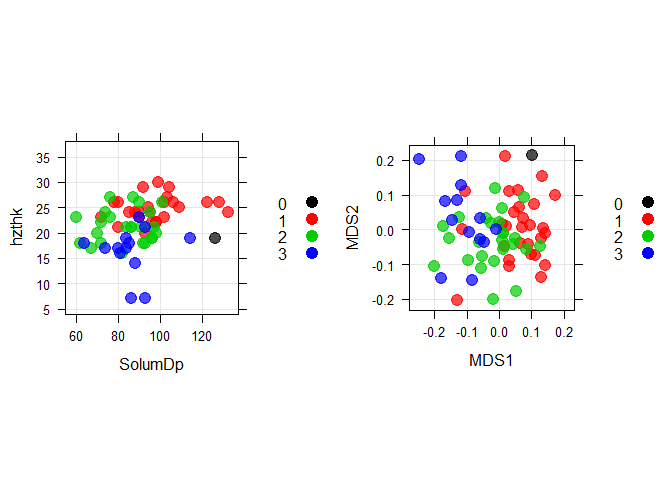
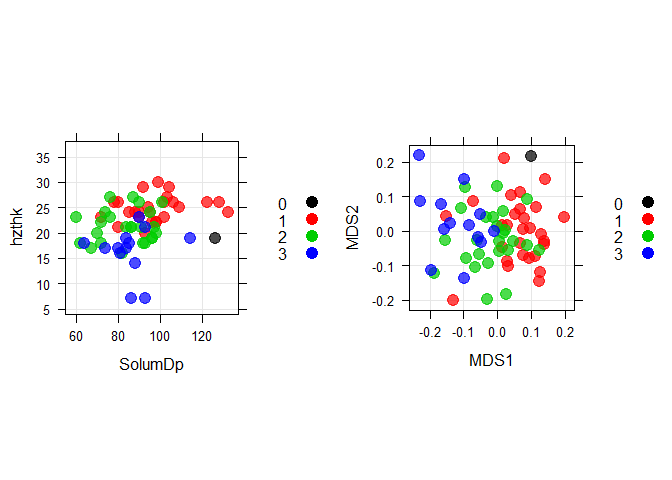
update to sie analysis

Changed region(s): [[0.5625, 0.3125, 0.8438, 0.7188], [0.5625, 0.5938, 0.5938, 0.6562], [0.8125, 0.6875, 0.8438, 0.7188]]

diff --git a/sandbox/stephen/neil_arcsie.md b/sandbox/stephen/neil_arcsie.md
@@ -8,6 +8,16 @@ November 7, 2016
 
 
 
+
+## Introduction
+
+This analysis looks at the field data collected for the following 2016 MLRA projects:
+- MLRA 111E - Cardington and Centerburg silt loams, 2 to 6 percent slopes 
+- MLRA 111E - Cardington and Centerburg silt loams, 2 to 6 percent slopes, eroded
+
+One of the goals of these projects was to develop an ArcSIE model in order to differentiate erosion classes. The analysis below is intended to evaluate the field data and ArcSIE model.
+
+
 ## Import Data and Transform
 
 
@@ -25,7 +35,7 @@ data <- transform(data,
 ```
 
 
-## Confusion Matrix of the Erosion Class vs the ArcSIE Predictions
+## Evaluation of the Accuracy of the ArcSIE Predictions
 
 
 ```r
@@ -44,17 +54,17 @@ cm$table
 ```
 
 ```r
-cm$overall
+round(cm$overall, 2)
 ```
 
 ```
 ##       Accuracy          Kappa  AccuracyLower  AccuracyUpper   AccuracyNull 
-##     0.52238806     0.24052426     0.39674840     0.64598512     0.41791045 
+##           0.52           0.24           0.40           0.65           0.42 
 ## AccuracyPValue  McnemarPValue 
-##     0.05450886            NaN
+##           0.05            NaN
 ```
 
-The overall accuracy of the ArcSIE predictions is 0.52. The confusion matrix above shows that the ArcSIE model wasn't able to discriminate EroClassFD class 2 well. However since the initial sampling, Tonie Endres has reviewed some of the misclassifications and determined the ArcSIE classes to be correct, thus the overall accuracy is somewhat higher.
+The overall accuracy of the ArcSIE predictions is 0.52. The confusion matrix above shows that the ArcSIE model wasn't able to discriminate EroClassFD class 2 well. However since the initial sampling, Tonie Endres has reviewed some of the observations that were misclassified in the field and determined the ArcSIE classes to be correct, thus the overall accuracy is somewhat higher.
 
 
 ## Boxplots of the Erosion Classes
@@ -84,7 +94,7 @@ bwplot(EroClass ~ value | variable + method, data = data_lo,
 #   facet_wrap(~ variable + method, scales="free_y")
 ```
 
-The box plots show that the FD erosion classes have a linear trend for some variables, while others only show one class deviating from the others. In addition the variation within each classes overlap the others, such that their median values are indistinguishable from the other classes in many cases. The trends for the EroClassSIE classes appear to be less linear and have less separation. 
+The box plots show that the FD erosion classes have a linear trend for some variables, while other variables only show class 3 or 1 deviating from the other two classes. Overall the variation within each of classes overlap considerably, such that in many cases the median values of one class fall within the interquartile range of the other two classes. This overlap suggests that it is difficult/impractical to separate all the classes. In comparison, the trends between the SIE classes and variables appear to be less linear. In addition, the trends between the SIE classes and digital elevation model (DEM) derivatives (i.e. slope) don't match those observed for FD classes. This mismatch suggests that the membership functions for the SIE classes are poor fit, and should be redefined to more accurately represent the relationship between the FD classes and DEM derivatives.
 
 
 ## Scatterplots of the Erosion Classes
@@ -102,28 +112,28 @@ test_mds <- metaMDS(test_d, distance = "gower", autotransform = FALSE)
 
 ```
 ## Run 0 stress 0.23203 
-## Run 1 stress 0.2324183 
-## ... Procrustes: rmse 0.03510834  max resid 0.1507323 
-## Run 2 stress 0.2416447 
-## Run 3 stress 0.2337057 
-## Run 4 stress 0.2681202 
-## Run 5 stress 0.2383004 
-## Run 6 stress 0.2335836 
-## Run 7 stress 0.2324182 
-## ... Procrustes: rmse 0.03508412  max resid 0.1504734 
-## Run 8 stress 0.2357699 
-## Run 9 stress 0.23571 
-## Run 10 stress 0.2337561 
-## Run 11 stress 0.2384496 
-## Run 12 stress 0.2431326 
-## Run 13 stress 0.2338738 
-## Run 14 stress 0.2402656 
-## Run 15 stress 0.239072 
-## Run 16 stress 0.2401833 
-## Run 17 stress 0.2377806 
-## Run 18 stress 0.2338012 
-## Run 19 stress 0.2380599 
-## Run 20 stress 0.2359827 
+## Run 1 stress 0.2358998 
+## Run 2 stress 0.4079556 
+## Run 3 stress 0.2374383 
+## Run 4 stress 0.2363296 
+## Run 5 stress 0.2409159 
+## Run 6 stress 0.2359764 
+## Run 7 stress 0.2337558 
+## Run 8 stress 0.2376534 
+## Run 9 stress 0.2392665 
+## Run 10 stress 0.233003 
+## Run 11 stress 0.2389979 
+## Run 12 stress 0.2349651 
+## Run 13 stress 0.2326177 
+## Run 14 stress 0.2368447 
+## Run 15 stress 0.2397993 
+## Run 16 stress 0.2396505 
+## Run 17 stress 0.243332 
+## Run 18 stress 0.2357742 
+## Run 19 stress 0.2320092 
+## ... New best solution
+## ... Procrustes: rmse 0.03135498  max resid 0.1492585 
+## Run 20 stress 0.2361535 
 ## *** No convergence -- monoMDS stopping criteria:
 ##     20: stress ratio > sratmax
 ```
@@ -155,10 +165,10 @@ plot(p2, split = c(2, 1, 2, 1), newpage = FALSE)
 # grid.arrange(p1, p2, ncol = 2)
 ```
 
-The scatter plots of the erosion classes displayed over various dimensions, including using multidimensional (MD) scaling, again show their is overlap between the erosion classes. 
+Scatter plots of the erosion classes displayed over various dimensions, including using multidimensional (MD) scaling, again show their is considerable overlap between the erosion classes. 
 
 
-## Cluster Analysis
+## Generate Hierarchical Clusters from the Field Data
 
 
 ```r
@@ -169,10 +179,10 @@ rect.hclust(test_c, k = 3)
 
 ![](neil_arcsie_files/figure-html/ca-1.png)<!-- -->
 
-Example of Centerburg data classified using a hierarchical cluster analysis, and aggregated into the 3 most distinct classes. The 3rd class appears to be an outlier.
+A hierarchical classification of the field data was generated in order to compare with the FD classes and determine if a more compact classification could be achieved. An threshold of 3 classes was selected. In examing the dendrogram it is apparent that the 1 class it much smaller than the other 2.
 
 
-## Contingency Table of the Erosion Classes vs the Hierachical Clusters
+## Comparison of the Erosion Classes and Hierachical Clusters
 
 
 ```r
@@ -202,7 +212,7 @@ with(clusters, table(EroClassSIE, clusters))
 ##           3  0  5  1  2
 ```
 
-The contingency table shows that the field determined erosion classes (EroClassFD) 1 and 2 overlap the most with the hierarchical clusters 2 and 3. The ArcSIE predictions don't appear to have as much correspondence with the hierarchical clusters.
+The contingency table shows that the FD classes (EroClassFD) 1  overlaps the most with cluster 2, while FD class 2 overlap the most with the cluster 3. The ArcSIE predictions don't appear to have any correspondence with the hierarchical clusters.
 
 
 ## Scatter Plots of the Erosion Classes vs the Hierachical Clusters
@@ -233,7 +243,7 @@ plot(p2, split = c(2, 1, 2, 1), newpage = FALSE)
 # grid.arrange(p1, p2, ncol = 2)
 ```
 
-The hierarchical clusters seem to have less overlap when viewed along the multidimensional scaled axes.
+In comparison the hierarchical clusters have less considerably less overlap when viewed along the multidimensional scaled axes.
 
 
 ## Box Plots fo the Erosion Classes vs the Hierachical Clusters
@@ -424,3 +434,6 @@ cm3$overall
 
 ## Summary
 
+It was discussed that in practice the definition of the erosion classes is somewhat subjective. This makes it difficult to separate the classes in the field consistently, which correspondingly make them difficult to model.
+
+Test additional DEM derivatives, such as the topographic wetness index (TWI) and relative elevation.
